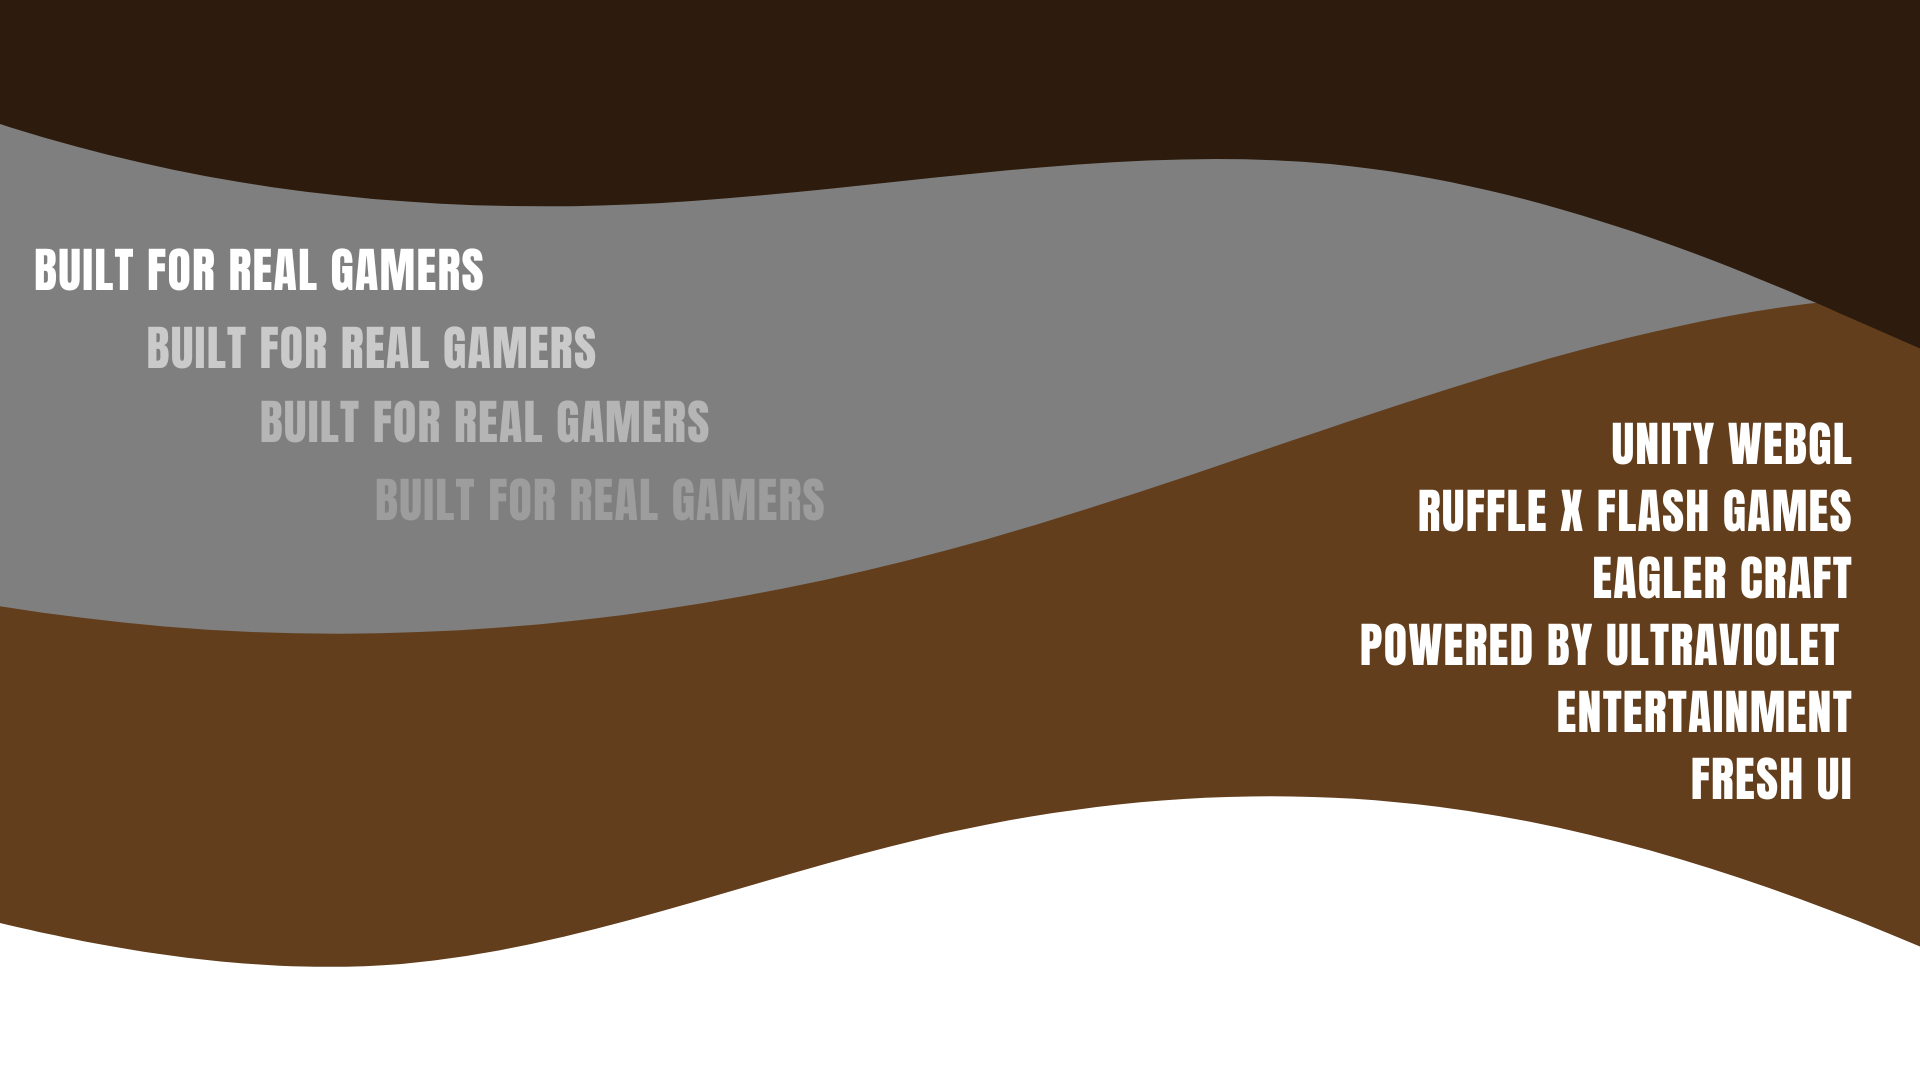
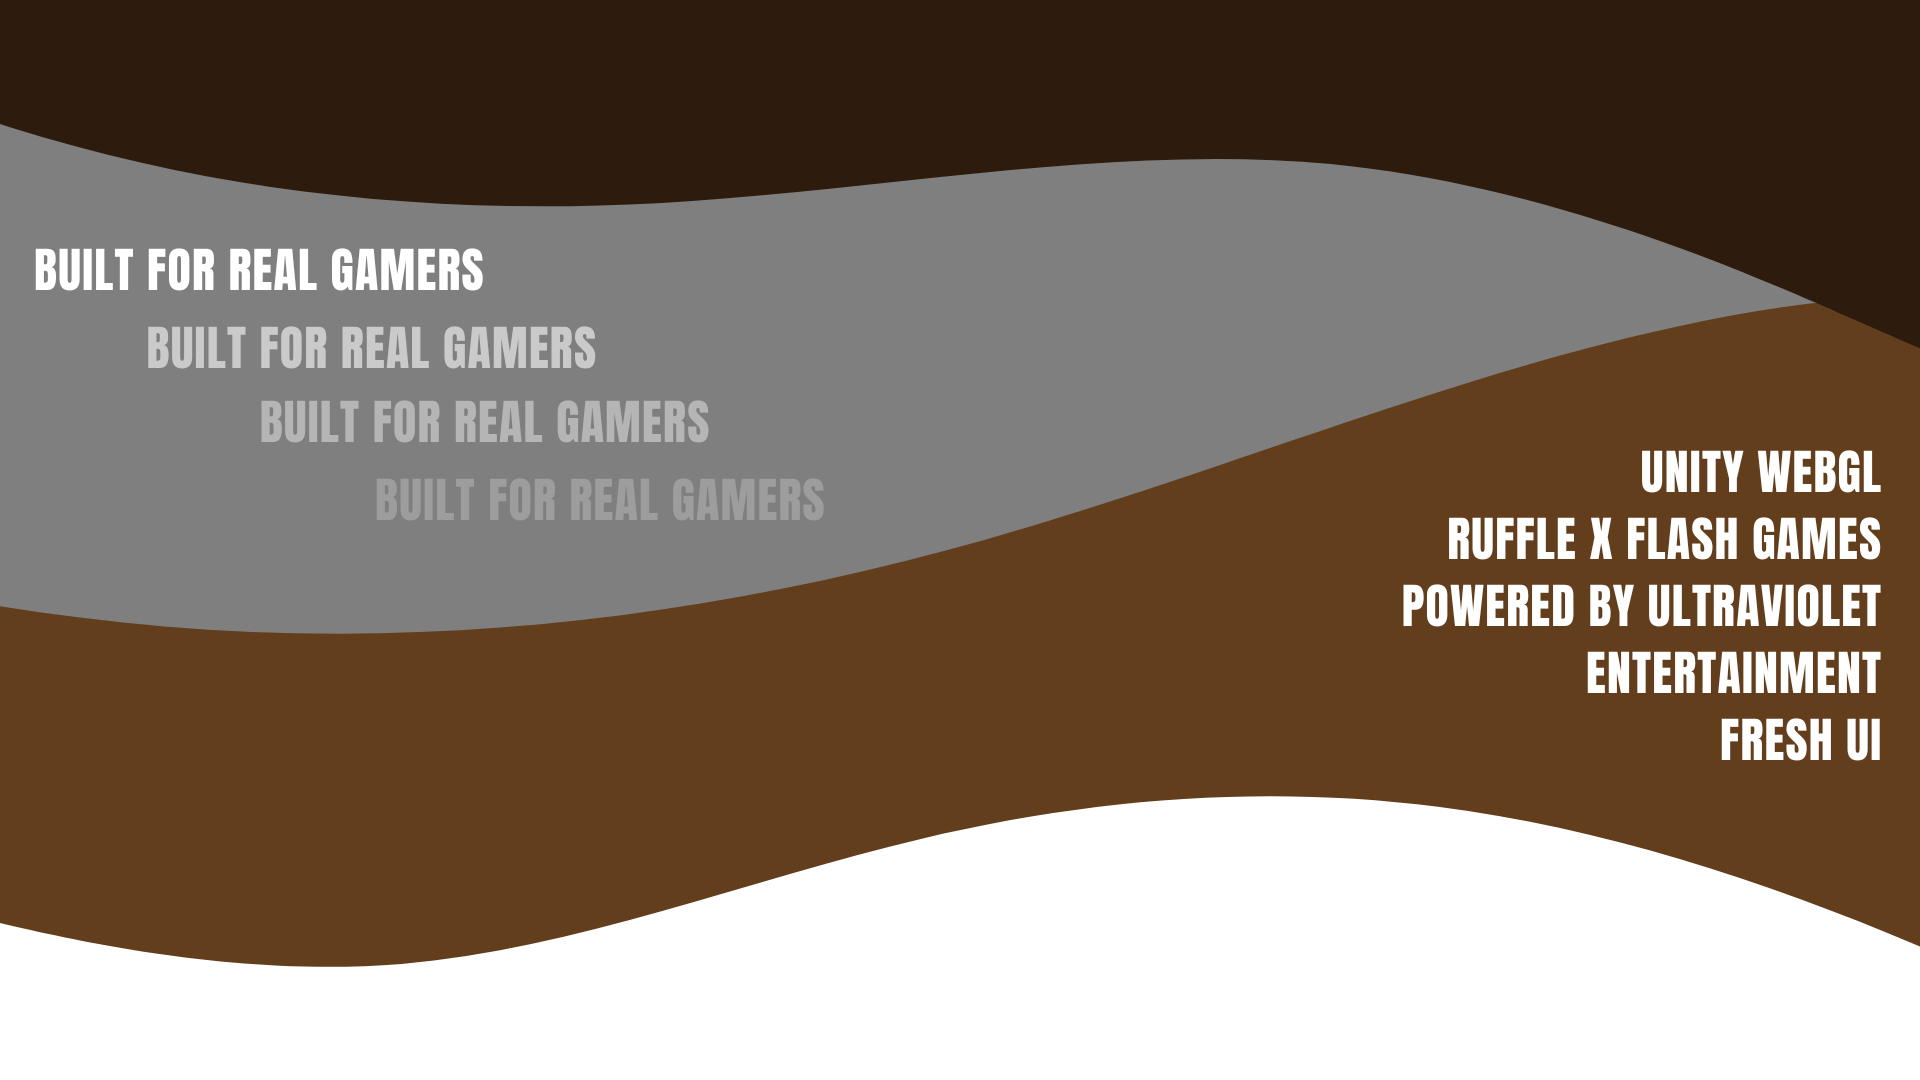
really sexy navbar update

Changed region(s): [[0.6875, 0.3667, 1.0, 0.7639]]

diff --git a/index.html b/index.html
@@ -37,8 +37,8 @@
         <script src="scripts/main.js"></script>
     </head>
     <body>
-        <div style="width:100vw;position: fixed;top: 0;background-color: rgb(255, 255, 255); text-decoration: none;" class="row">
-            <div style="width:100vw;background-color: rgb(255, 255, 255);position: fixed;top: 0;z-index:5;">
+        <div style="background-color: rgb(255, 255, 255); text-decoration: none;" class="row">
+            <div style="z-index:5;">
                 <div class="one">
                     <section class="" style="text-align: center;">
                         <div style="margin-left:20px;padding-top: 20px;" class="span2 logonav">
@@ -87,7 +87,7 @@
         </div>
         <div class="contentbelownav">
             <!--<div class="alert" style="text-align: center;"> Thanks for 100k! </div>-->
-            <img style="margin-top:111px;background-image:url(images/1.png); background-attachment: fixed;background-position: center;background-repeat: no-repeat;background-size: cover;width: 100vw; max-width:100vw;" src="images/wave1-2.png" alt="background">
+            <img style="background-image:url(images/1.png); background-attachment: fixed;background-position: center;background-repeat: no-repeat;background-size: cover;width: 100vw; max-width:100vw;" src="images/wave1-2.png" alt="background">
             <!---->
             <div class="main">
                 <section>

diff --git a/styles/style.css b/styles/style.css
@@ -523,6 +523,9 @@ a.active{
      .phonestuff{
          display: block;
     }
+    .nav1 {
+        position: relative;
+    }
 }
  @media screen and (min-width: 1000px) {
      html {
@@ -533,3 +536,6 @@ a.active{
     }
 }
  
+.nav1 {
+    position: fixed;
+}
